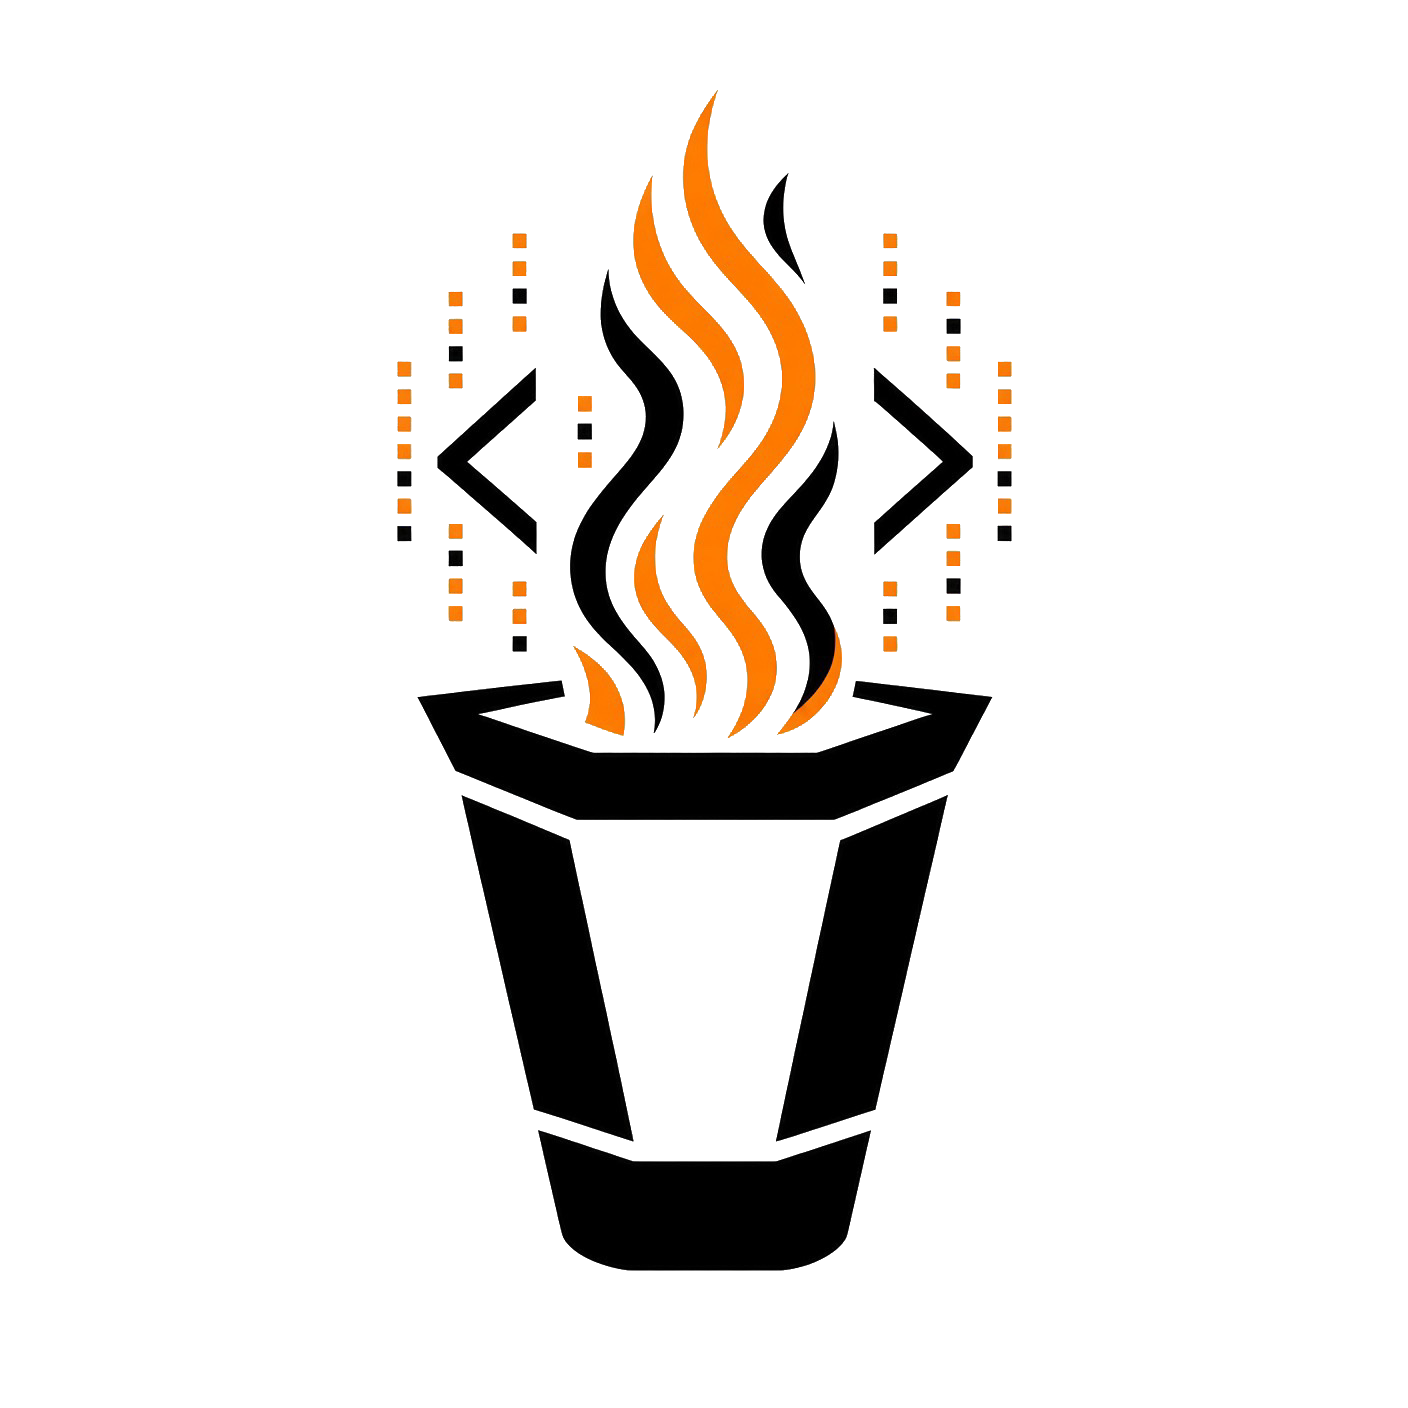
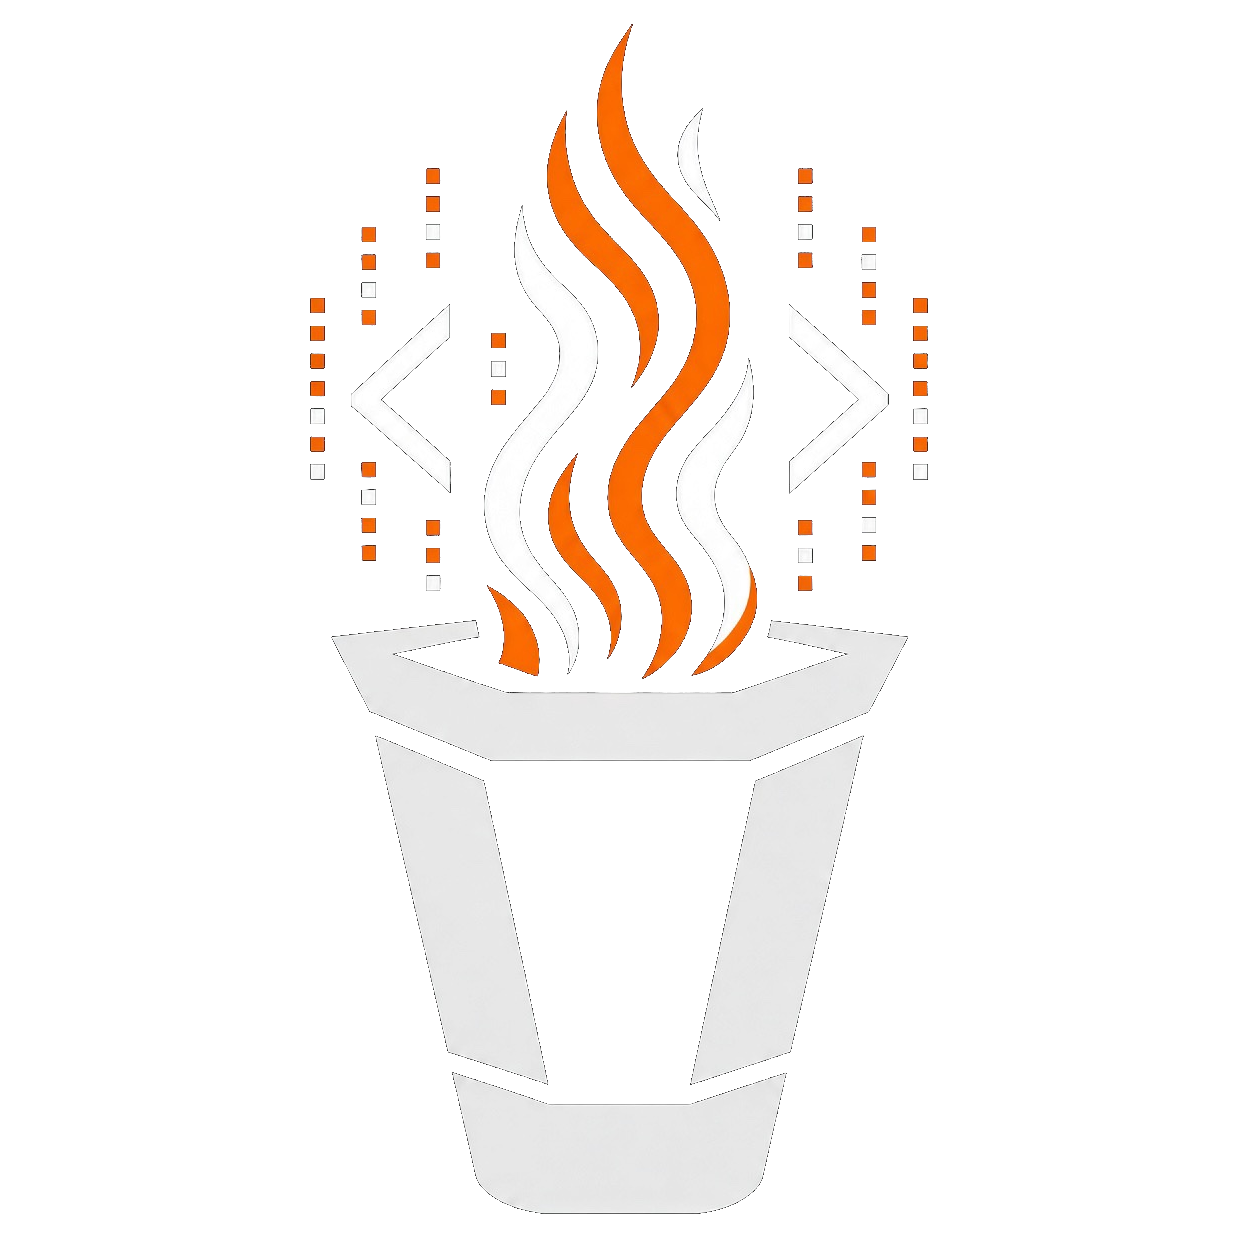
Add flat dark-mode Crucible mark and theme-aware lockup
Swap in the high-contrast vessel/flame mark for dark UI, keep the
prior glyph for light mode, and default to the dark asset to avoid
FOUC against the dark theme.

Changed region(s): [[0.2456, 0.0307, 0.7674, 0.9822], [0.3376, 0.1228, 0.399, 0.2149], [0.2763, 0.1842, 0.3069, 0.2149]]

diff --git a/src/components/brand/crucible-lockup.tsx b/src/components/brand/crucible-lockup.tsx
@@ -2,16 +2,24 @@ import Image from "next/image";
 import Link from "next/link";
 import { cn } from "@/lib/utils";
 
-/** Official flame + vessel mark — no plate/border, just the glyph. */
+/** Official flame + vessel mark — flat dark glyph by default; light twin when html.light. */
 export function CrucibleGlyph({ className }: { className?: string }) {
   return (
     <span className={cn("relative block", className)}>
       <Image
-        src="/brand/crucible-mark.png"
+        src="/brand/crucible-mark-dark.png"
         alt=""
         width={128}
         height={128}
-        className="h-full w-full object-contain"
+        priority
+        className="h-full w-full object-contain [:where(html.light)_&]:hidden"
+      />
+      <Image
+        src="/brand/crucible-mark-light.png"
+        alt=""
+        width={128}
+        height={128}
+        className="hidden h-full w-full object-contain [:where(html.light)_&]:block"
       />
     </span>
   );
